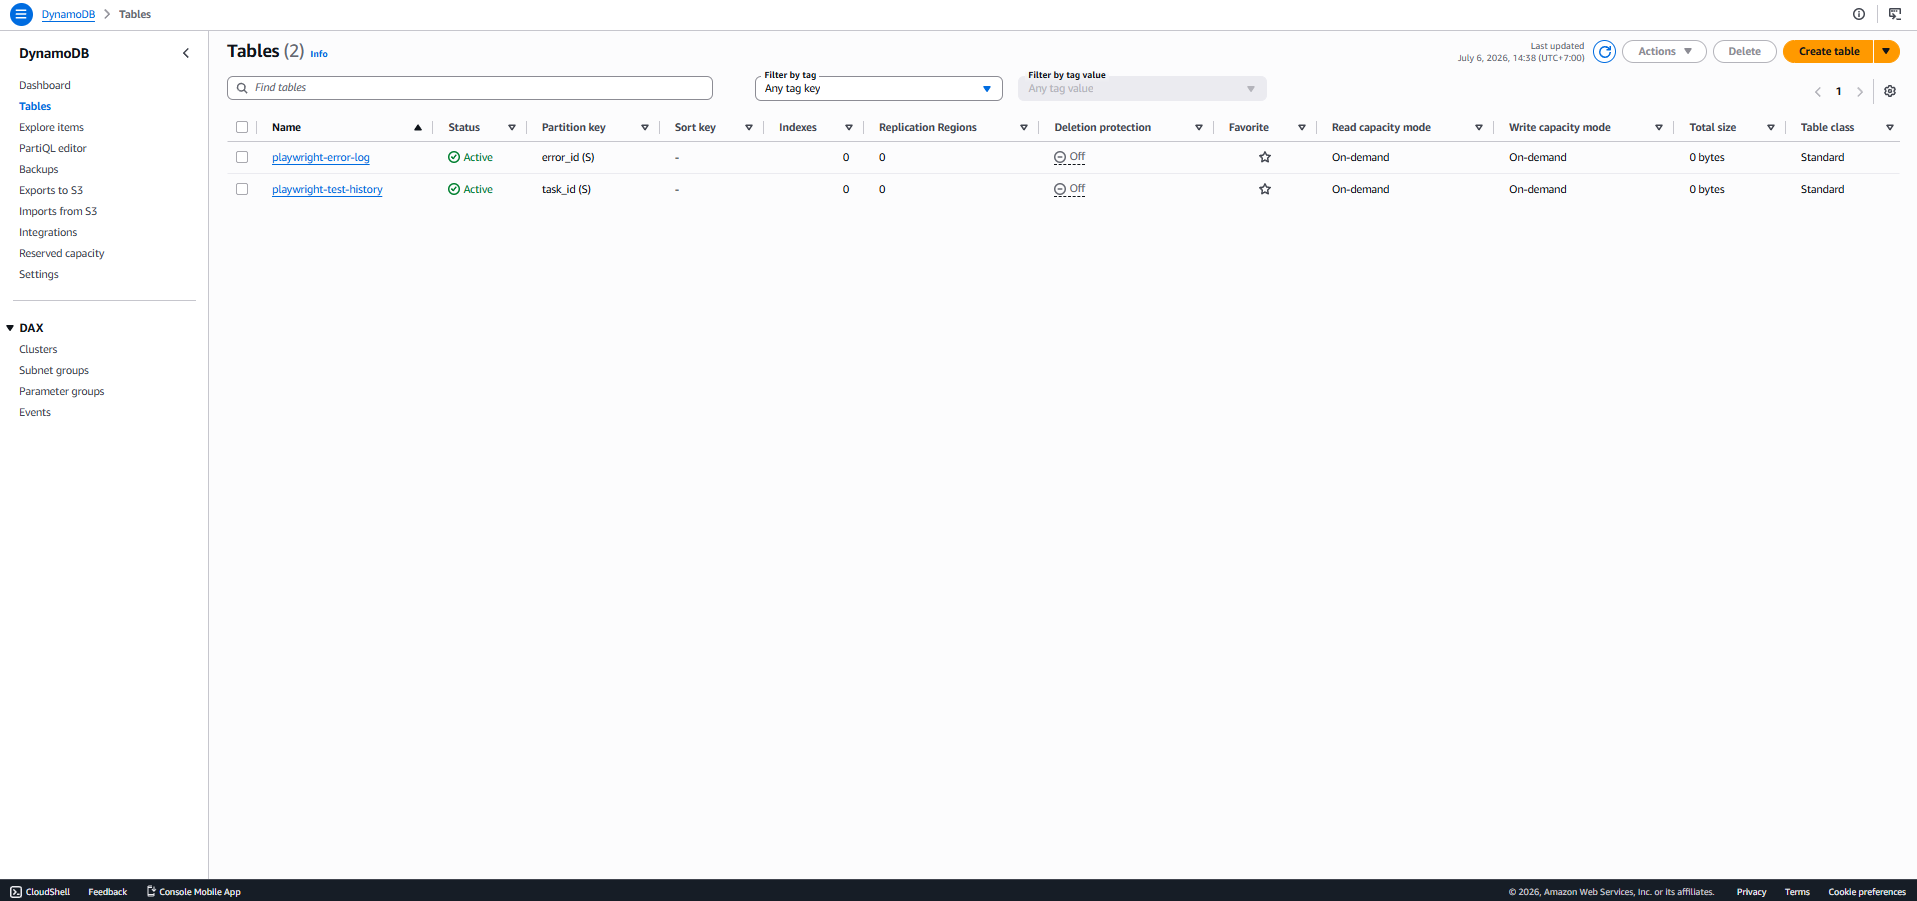
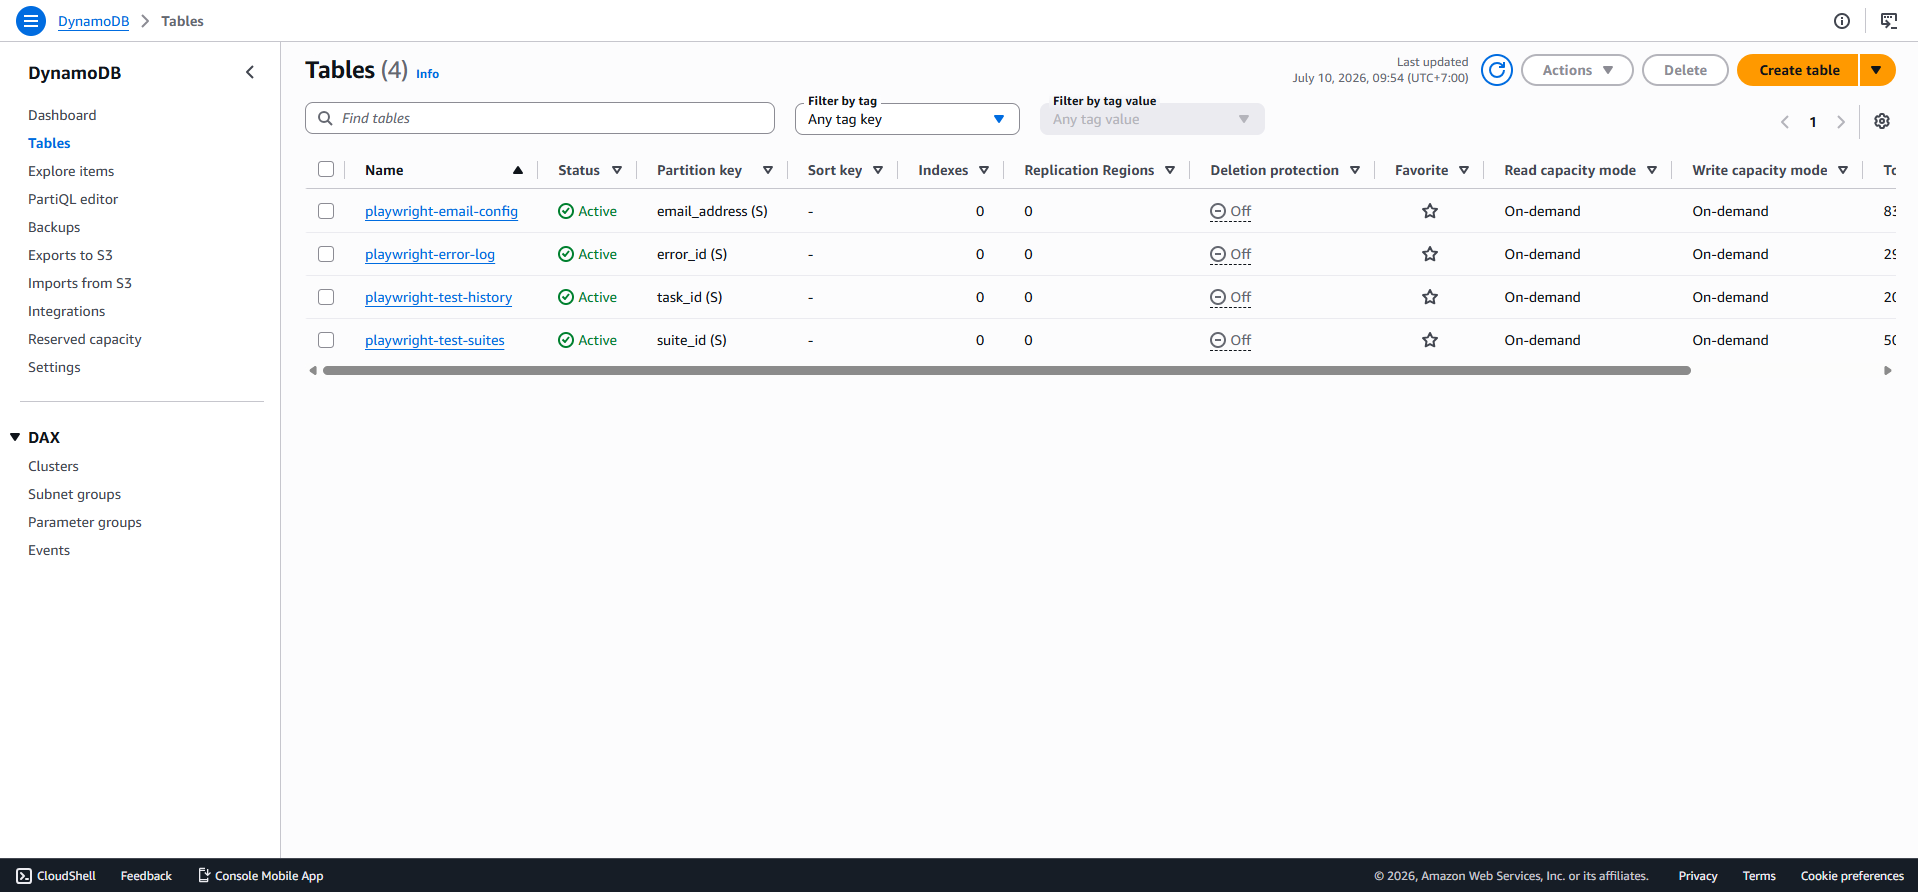
update workshop 5.3

diff --git a/content/5-Workshop/5.3-storage-and-database/_index.md b/content/5-Workshop/5.3-storage-and-database/_index.md
@@ -26,7 +26,7 @@ The system uses 2 DynamoDB tables: one storing the history of each test run, and
 
 **Step 5:** Leave the other settings as default, click **Create table**.
 
-![Create table playwright-test-history](/images/5-Workshop/5.3-Data-Storage/4-create-test-history-table.png)
+![Create table playwright-test-history](/images/5-Workshop/5.3-Data-Storage/4-create-test-history-table.png?featherlight=false&width=90pc)
 
 **Step 6:** Click **Create table** again to create the second table.
 
@@ -40,51 +40,33 @@ The system uses 2 DynamoDB tables: one storing the history of each test run, and
 
 ![Create table playwright-error-log](/images/5-Workshop/5.3-Data-Storage/6-create-error-log-table.png?featherlight=false&width=90pc)
 
-**Step 10:** Wait for both tables to switch to **Active** status.
+**Step 10:** Click **Create table** a third time, name it `playwright-email-config`, Partition key = `email_address`, type **String**, click **Create table**.
 
-![Both tables in Active status](/images/5-Workshop/5.3-Data-Storage/7-tables-active.png?featherlight=false&width=90pc)
+![Create the playwright-email-config table](/images/5-Workshop/5.3-Data-Storage/11-create-email-config-table.png?featherlight=false&width=90pc)
+
+**Step 11:** Click **Create table** a fourth time, name it `playwright-test-suites`, Partition key = `suite_id`, type **String**, click **Create table**.
+
+![Create the playwright-test-suites table](/images/5-Workshop/5.3-Data-Storage/12-create-test-suites-table.png?featherlight=false&width=90pc)
+
+**Step 12:** Wait for all 4 tables to switch to **Active** status.
+
+![All tables in Active status](/images/5-Workshop/5.3-Data-Storage/7-tables-active.png?featherlight=false&width=90pc)
 
 *(Note: No need to create any other fields such as `target_url`, `status`, `report_url`, etc. — DynamoDB is NoSQL and automatically picks up fields when the application writes data, with no need to declare a rigid schema upfront.)*
-
-#### Detailed schema
-
-**Table `playwright-test-history`**
-
-| Field | Type | Description |
-|---|---|---|
-| task_id | String | Partition Key |
-| target_url | String | URL to be tested |
-| test_script | String | Name of the test script |
-| status | String | running / success / failed |
-| triggered_by | String | manual / schedule |
-| started_at | String | ISO datetime |
-| finished_at | String | ISO datetime |
-| report_url | String | S3 Presigned URL to the report |
-| ai_summary | String | AI-generated error summary |
-
-**Table `playwright-error-log`**
-
-| Field | Type | Description |
-|---|---|---|
-| error_id | String | Partition Key |
-| original_message_id | String | Original MessageId from SQS |
-| message_body | String | Original message content |
-| error_message | String | Error content, if any |
-| timestamp | String | ISO datetime |
 
 #### Grant permissions for the Fargate container to write directly to DynamoDB
 
 Since the Fargate container writes the `running/success/failed` status directly to the `playwright-test-history` table (bypassing Lambda), the Task Role needs additional permissions.
 
-**Step 11:** Open the **IAM Console**, find the role `playwright-ecs-task-role`.
+**Step 13:** Open the **IAM Console**, find the role `playwright-ecs-task-role`.
 
 ![Find the role `playwright-ecs-task-role`](/images/5-Workshop/5.3-Data-Storage/8-search-playwright-ecs-task-role.png?featherlight=false&width=90pc)
 
-**Step 12:** Click **Add permissions → Create inline policy**.
+**Step 14:** Click **Add permissions → Create inline policy**.
 
 ![Create an inline policy](/images/5-Workshop/5.3-Data-Storage/9-create-inline-policy.png?featherlight=false&width=90pc)
 
-**Step 13:** Select the **JSON** tab, paste the following content:
+**Step 15:** Select the **JSON** tab, paste the following content:
 ```json
 {
   "Version": "2012-10-17",
@@ -96,14 +78,14 @@ Since the Fargate container writes the `running/success/failed` status directly 
 }
 ```
 
-**Step 14:** Replace `<account-id>` with the real Account ID (12 digits, shown in the top-right corner of the Console).
+**Step 16:** Replace `<account-id>` with the real Account ID (12 digits, shown in the top-right corner of the Console).
 
-**Step 15:** Name the policy, e.g. `SecretsManagerReadWrite`, click **Create policy**.
+**Step 17:** Name the policy, e.g. `SecretsManagerReadWrite`, click **Create policy**.
 
 ![Policy attached to the role](/images/5-Workshop/5.3-Data-Storage/10-inline-policy-attached.png?featherlight=false&width=90pc)
 
 #### Verification
 
-- Both tables show **Active** status in the Console.
+- All 4 tables show **Active** status in the Console.
 - `playwright-ecs-task-role` shows the inline policy `SecretsManagerReadWrite` in the Permissions tab.
 - After running a test: go to the `playwright-test-history` table → **Explore table items** tab → see a record with `status`, `report_url`, `ai_summary` all populated.
